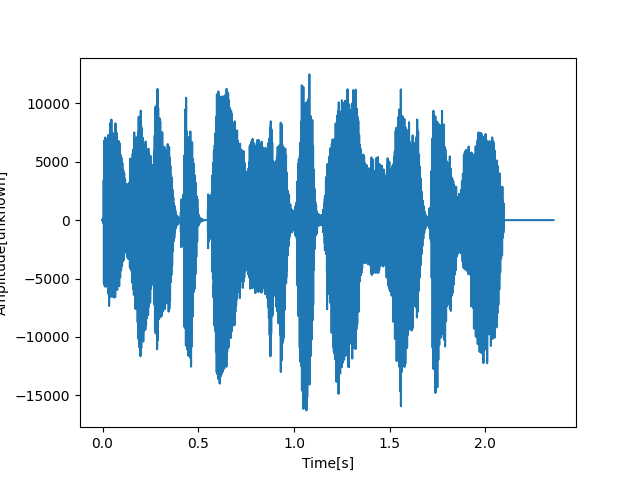
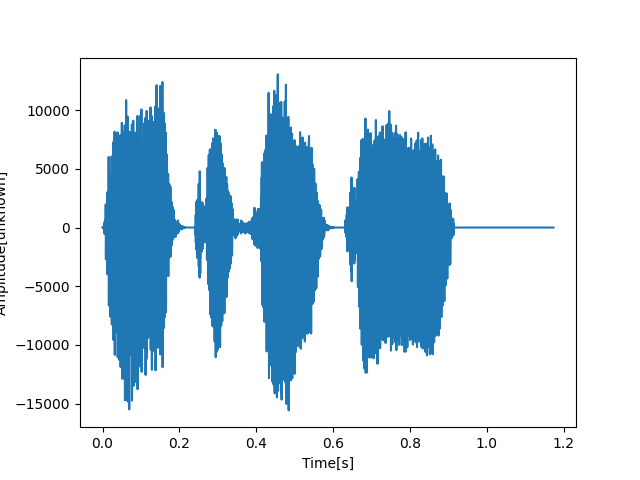
a

diff --git a/main.py b/main.py
@@ -6,7 +6,7 @@ import matplotlib.pyplot as plt
 from skimage import util
 
 
-rate, audio = wavfile.read(r"JEI説明.wav", "r") # waveファイルを読み込み用ファイルとして開く
+rate, audio = wavfile.read(r"ワープ成功.wav", "r") # waveファイルを読み込み用ファイルとして開く
 
 audio = np.mean(audio, axis=1) # ステレオをモノラルに変換
 N = audio.shape[0] # 要素数を返す
